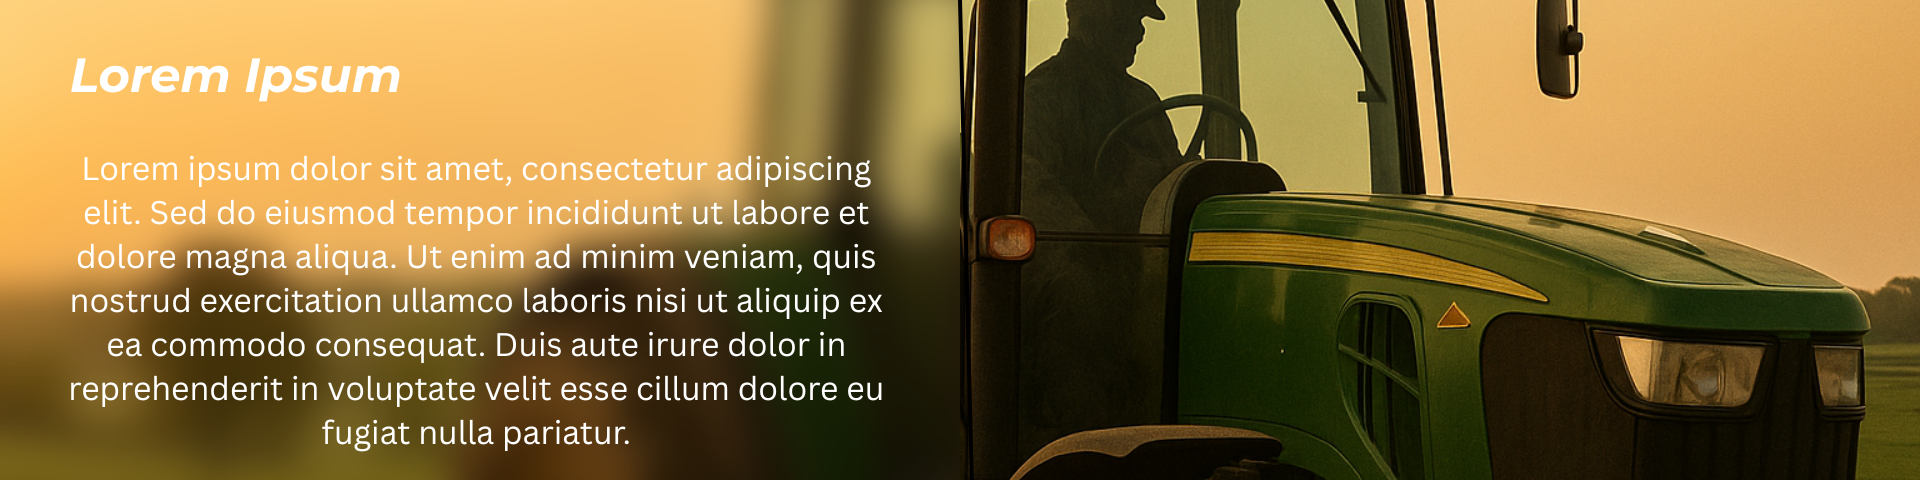
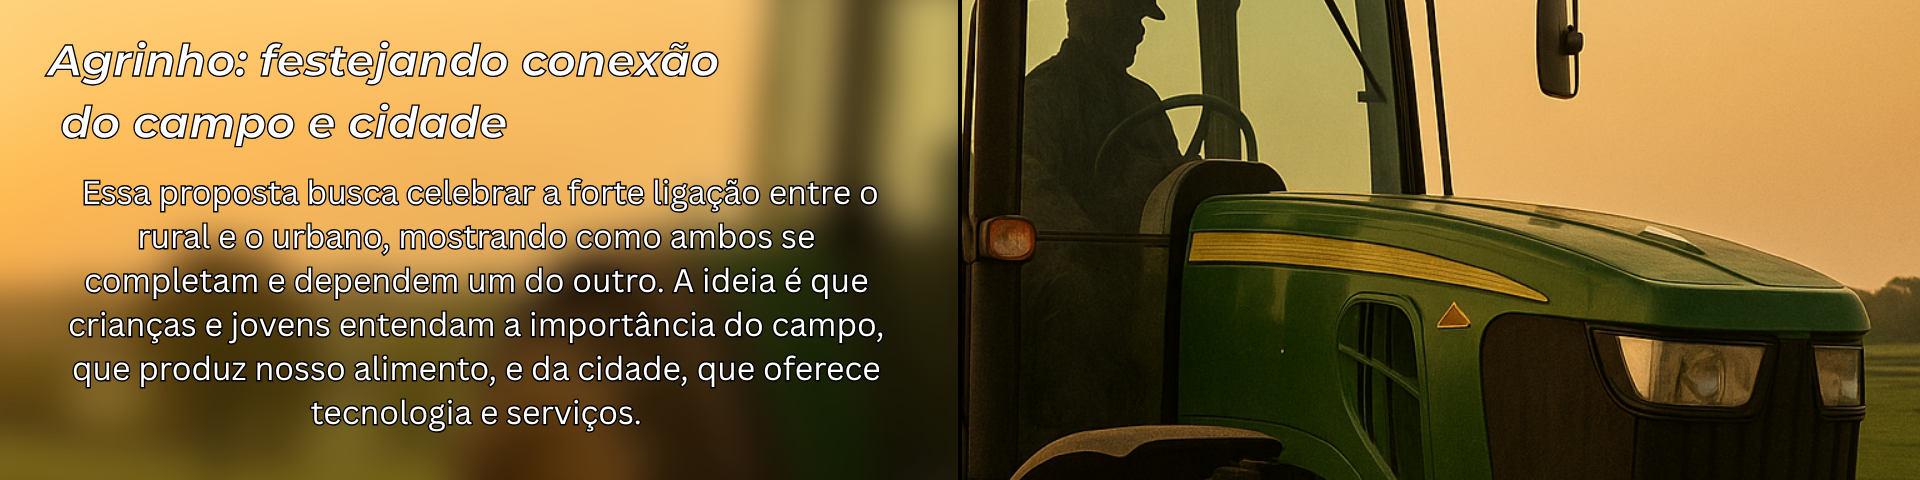
Add files via upload

Changed region(s): [[0.0, 0.0938, 0.4688, 0.9375]]

diff --git a/Agrinho 2025/sobre.html b/Agrinho 2025/sobre.html
@@ -12,25 +12,24 @@
                 <a href="index.html">Início</a>
                 <a href="sobre.html">Sobre</a>
                 <a href="agrinho.html">Agrinho</a>
-                <a href="galeria.html">Galeria</a>
             </nav>    
     </header>
-    <main>
+    <main class="content_sobre">
         <div class="texto_corpo">
-            <h1 class="titulo_sobre">Sobre o Projeto de site do "Agrinho"</h1>
-            <p class="texto_sobre">Este site é criado para mostrar a <strong>interdependência vital entre o campo e a cidade</strong>. Criado como parte de um projeto educacional, apoiado pelo FAEP, ele busca iluminar como esses dois ambientes, onde muitas vezes são vistos como distintos, mas os dois complementam e impulsionam o desenvolvimento.</p>
-            <p class="texto_sobre">O objetivo é destacar a <strong>importância da produção agrícola</strong> no fornecimento de alimentos e matérias-primas, e como os <strong>centros urbanos contribuem com inovação, tecnologia e serviços</strong> essenciais para o agronegócio. Onde é necessário compreender que essa relação é fundamental para construir um futuro mais próspero e equilibrado para todos.</p>
+            <h1 class="titulo_outras_paginas">Sobre o Projeto de site do "Agrinho"</h1>
+            <p class="texto_outras_paginas">Este site é criado para mostrar a <strong>interdependência vital entre o campo e a cidade</strong>. Criado como parte de um projeto educacional, apoiado pelo FAEP, ele busca iluminar como esses dois ambientes, onde muitas vezes são vistos como distintos, mas os dois complementam e impulsionam o desenvolvimento.</p>
+            <p class="texto_outras_paginas">O objetivo é destacar a <strong>importância da produção agrícola</strong> no fornecimento de alimentos e matérias-primas, e como os <strong>centros urbanos contribuem com inovação, tecnologia e serviços</strong> essenciais para o agronegócio. Onde é necessário compreender que essa relação é fundamental para construir um futuro mais próspero e equilibrado para todos.</p>
         </div>
         <div class="linha_divisoria"></div>
         <div class="criadores">
-            <h1 class="titulo_sobre">Criadores do projeto</h1>
+            <h1 class="titulo_outras_paginas">Criadores do projeto</h1>
             <div class="membro">
                 <h3>Igor Ramos</h3>
-                <p>teste teste teste teste teste teste teste teste teste teste teste teste teste teste teste teste teste teste</p>
+                <p>O aluno responsável pelo projeto é o Igor. Teve como objetivo criar um site para mostrar a importância da conexão do campo com a cidade no projeto de criar um site</p>
             </div>
             <div class="membro">
                 <h3>Juliana Jacopetti</h3>
-                <p>teste teste teste teste teste teste teste teste teste teste teste teste teste teste teste teste teste teste</p>
+                <p>A orientadora do projeto é a Juliana Jacopetti, forneceu ajuda e direcionou o projeto, garantindo que tudo estivesse certo e em ordem</p>
             </div>
         </div>
     <footer>

diff --git a/Agrinho 2025/agrinho.html b/Agrinho 2025/agrinho.html
@@ -12,10 +12,25 @@
                 <a href="index.html">Início</a>
                 <a href="sobre.html">Sobre</a>
                 <a href="agrinho.html">Agrinho</a>
-                <a href="galeria.html">Galeria</a>
             </nav>    
     </header>
-    <main>
+    <main class="content_agrinho">
+        <h1 class="titulo_outras_paginas">O que é o Agrinho?</h1>
+        <P class="texto_outras_paginas">O Agrinho é um programa de responsabilidade social do Serviço Nacional de Aprendizagem Rural (SENAR). Ele se dedica a promover a educação no campo e a desenvolver a consciência ambiental e social em crianças e jovens na criação de projetos. Seu principal objetivo é preparar as futuras gerações para os desafios e as oportunidades do setor agropecuário, além de formar cidadãos mais conscientes com o meio ambiente e a sustentabilidade.</P>
+        <div class="linha_divisoria"></div>
+        <h1 class="titulo_outras_paginas">Como ele Funciona?</h1>
+        <p class="texto_outras_paginas">O Agrinho atua em parceria com secretarias de educação, escolas rurais e urbanas, ou com produtores rurais. Ele oferece material didático multidisciplinar que aborda temas como meio ambiente, cidadania, segurança alimentar, entre outras coisas... sempre com foco na realidade do campo. Além disso, o Agrinho promove atividades pedagógicas, concursos de desenho e redação, e visitas a propriedades rurais, proporcionando experiências práticas aos participantes.</p>
+        <div class="linha_divisoria"></div>
+        <h1 class="titulo_outras_paginas">Quais seus objetivos?</h1>
+        <p class="texto_outras_paginas">Os seus objetivos tem como ser de longo prazo, dentre eles são:</p>
+        <ul class="texto_outras_paginas">
+            <li> Ensinar sobre o meio ambiente</li>
+            <li> Valorizar o trabalho no campo</li>
+            <li> Formar bons cidadãos</li>
+            <li> Melhorar a vida no campo</li>
+            <li> Incentivar as crianças e adolecentes a agir</li>
+        </ul>
+    </main>
     <footer>
             <p>Desenvolvido por Igor Ramos.</p>
     </footer>

diff --git a/Agrinho 2025/style.css b/Agrinho 2025/style.css
@@ -77,7 +77,7 @@ header {
     font-family: var(--fonte-terciaria);
 }
 
-.content {
+.content_index {
     display: flex;
     flex-wrap: wrap;
     justify-content: center;
@@ -155,10 +155,7 @@ footer {
     padding: 20px;
 }
 
-/* Código de sobre*/
-
-
-.titulo_sobre {
+.titulo_outras_paginas {
     padding: 2rem;
     font-size: 2.8rem;
     color: #007011;
@@ -167,7 +164,7 @@ footer {
 
 }
 
-.texto_sobre {
+.texto_outras_paginas {
     text-align: left;
     font-size: 1.25rem;
     line-height: 1.6;
@@ -225,4 +222,23 @@ footer {
     font-size: 1.2rem;
     font-weight: 400;
     text-align: center;
+}
+
+@media (max-width: 1200px) {
+    .content_index {
+        max-width: 1250px;
+    }
+
+    .content_sobre {
+        max-width: 1250px;
+    }
+    .texto_outras_paginas{
+        max-width: 90%;
+    }
+    .content_agrinho {
+        max-width: 1250px;
+    }
+    .banner {
+        max-width: 100%;
+    }
 }

diff --git a/Agrinho 2025/index.html b/Agrinho 2025/index.html
@@ -12,12 +12,11 @@
             <a href="index.html">Início</a>
             <a href="sobre.html">Sobre</a>
             <a href="agrinho.html">Agrinho</a>
-            <a href="galeria.html">Galeria</a>
         </nav>    
     </header>
     <main>
         <img class="banner" src="./img/Banner.png" alt="banner">
-        <div class="content">
+        <div class="content_index">
             <div class="texto_corpo">
                 <h1>Como o campo e a cidade se <br>ajudam</br></h1>
                 <h3 class="texto_subtitulo">Uma parceria indispensável: o campo alimenta, a cidade inova, e juntos <br>constroem o futuro</br></h3>
